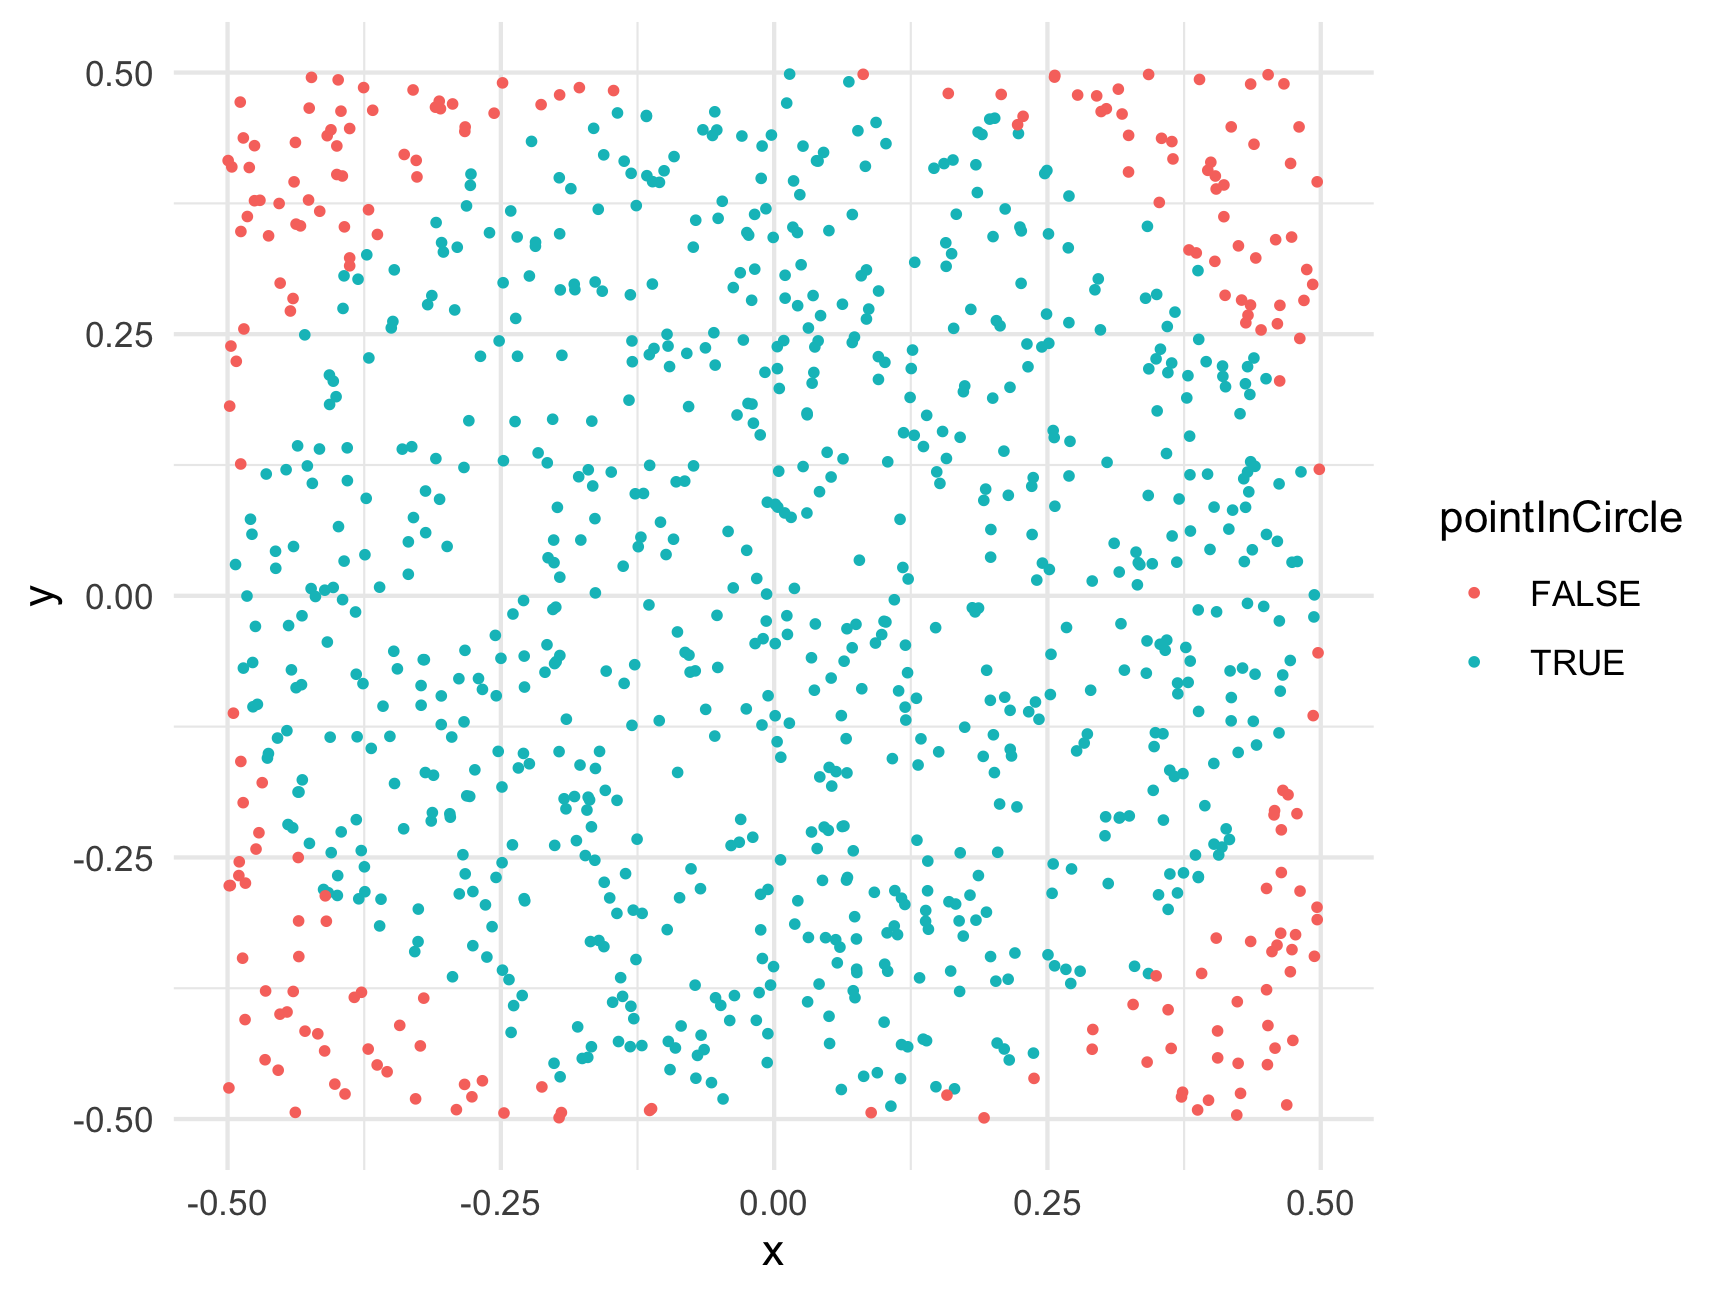
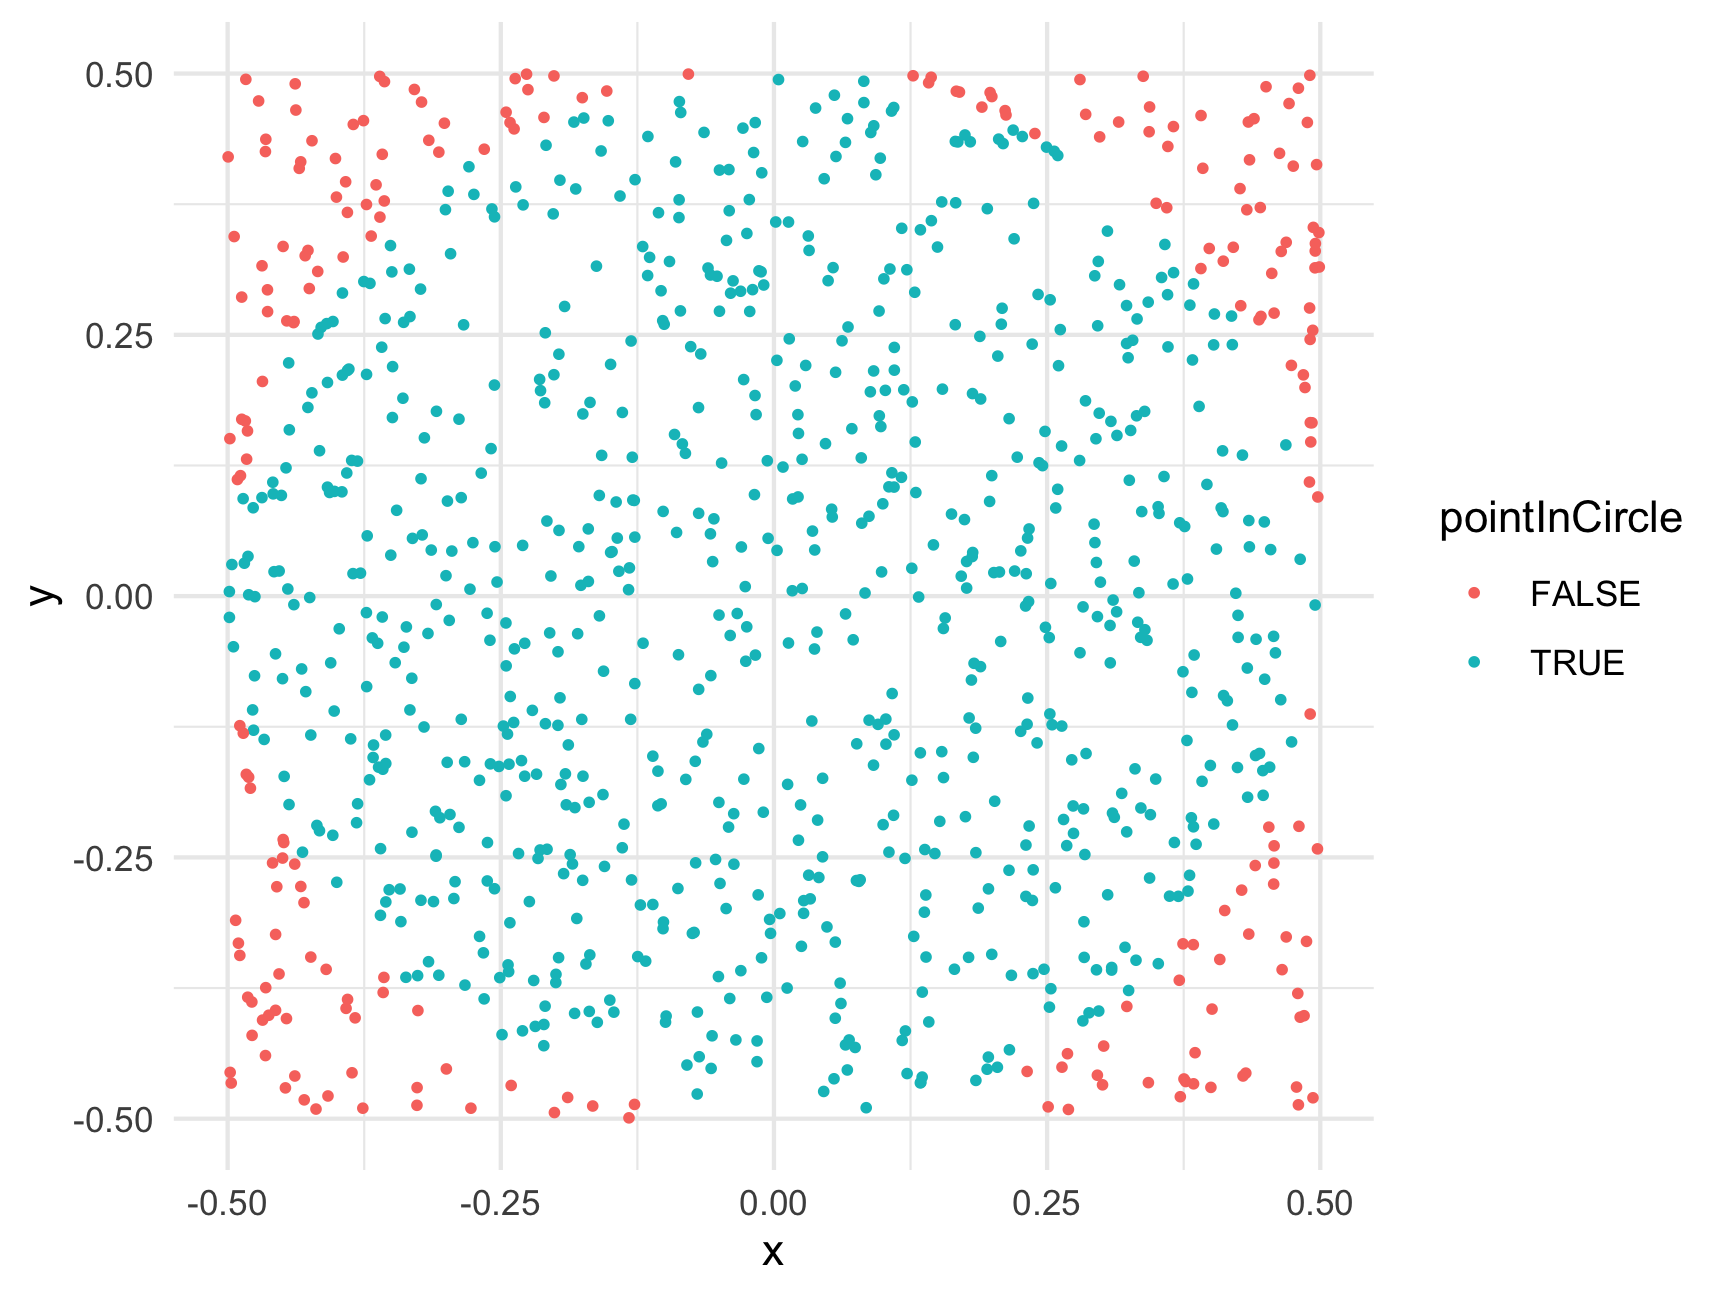
Deploying to gh-pages from  @ ff271068d2d1811dc008e36f15188fd6a6de8482 🚀

diff --git a/schedule.html b/schedule.html
@@ -634,11 +634,11 @@ Jan 13
 </td>
 <td style="text-align:center;">
 </td>
-<td style="text-align:left;width: 16em; ">
+<td style="text-align:left;width: 20em; ">
 <a href="c1-getting-started.html"><i class="fas fa-laptop-code"></i></a> <strong>Getting Started</strong><br>Class orientation, intro to R, workflow, problem solving
 </td>
-<td style="text-align:left;width: 16em; ">
-[<i class="fas fa-book-reader"></i>][<i class="fas fa-laptop-code"></i>](a1-getting-started.html) <strong>Getting Started</strong><br>Due Jan 19
+<td style="text-align:left;width: 9em; ">
+<a href="a1-getting-started.html"><i class="fas fa-book-reader"></i></a> Due Jan 19
 </td>
 </tr>
 <tr>
@@ -651,11 +651,11 @@ Jan 20
 <td style="text-align:center;">
 1
 </td>
-<td style="text-align:left;width: 16em; ">
+<td style="text-align:left;width: 20em; ">
 <a href="c2-functions-packages.html"><i class="fas fa-laptop-code"></i></a> <strong>Functions &amp; Packages</strong><br>Functions, arguments, installing external packages
 </td>
-<td style="text-align:left;width: 16em; ">
-[<i class="fas fa-book-reader"></i>][<i class="fas fa-laptop-code"></i>](a2-functions-packages.html) <strong>Functions &amp; Packages</strong><br>Due Jan 26
+<td style="text-align:left;width: 9em; ">
+<a href="a2-functions-packages.html"><i class="fas fa-book-reader"></i></a> Due Jan 26
 </td>
 </tr>
 <tr>
@@ -668,11 +668,11 @@ Jan 27
 <td style="text-align:center;">
 2
 </td>
-<td style="text-align:left;width: 16em; ">
+<td style="text-align:left;width: 20em; ">
 <a href="c3-creating-functions.html"><i class="fas fa-laptop-code"></i></a> <strong>Creating Functions</strong><br>Defining your own functions, top-down structure
 </td>
-<td style="text-align:left;width: 16em; ">
-[<i class="fas fa-book-reader"></i>][<i class="fas fa-laptop-code"></i>](a3-creating-functions.html) <strong>Creating Functions</strong><br>Due Feb 02
+<td style="text-align:left;width: 9em; ">
+<a href="a3-creating-functions.html"><i class="fas fa-book-reader"></i></a> Due Feb 02
 </td>
 </tr>
 <tr>
@@ -684,11 +684,11 @@ Feb 03
 </td>
 <td style="text-align:center;">
 </td>
-<td style="text-align:left;width: 16em; ">
+<td style="text-align:left;width: 20em; ">
 <a href="c4-conditionals-testing.html"><i class="fas fa-laptop-code"></i></a> <strong>Conditionals &amp; Testing</strong><br>If / else statements, writing unit tests
 </td>
-<td style="text-align:left;width: 16em; ">
-[<i class="fas fa-book-reader"></i>][<i class="fas fa-laptop-code"></i>](a4-conditionals-testing.html) <strong>Conditionals &amp; Testing</strong><br>Due Feb 09
+<td style="text-align:left;width: 9em; ">
+<a href="a4-conditionals-testing.html"><i class="fas fa-book-reader"></i></a> Due Feb 09
 </td>
 </tr>
 <tr>
@@ -701,11 +701,11 @@ Feb 10
 <td style="text-align:center;">
 3
 </td>
-<td style="text-align:left;width: 16em; ">
+<td style="text-align:left;width: 20em; ">
 <a href="c5-iteration.html"><i class="fas fa-laptop-code"></i></a> <strong>Iteration</strong><br>Ins and outs of loops
 </td>
-<td style="text-align:left;width: 16em; ">
-[<i class="fas fa-book-reader"></i>][<i class="fas fa-laptop-code"></i>](a5-iteration.html) <strong>Iteration</strong><br>Due Feb 16
+<td style="text-align:left;width: 9em; ">
+<a href="a5-iteration.html"><i class="fas fa-book-reader"></i></a> Due Feb 16
 </td>
 </tr>
 <tr>
@@ -717,11 +717,11 @@ Feb 17
 </td>
 <td style="text-align:center;">
 </td>
-<td style="text-align:left;width: 16em; ">
+<td style="text-align:left;width: 20em; ">
 <a href="c6-vectors.html"><i class="fas fa-laptop-code"></i></a> <strong>Vectors</strong><br>Creating and slicing collections of values
 </td>
-<td style="text-align:left;width: 16em; ">
-[<i class="fas fa-book-reader"></i>][<i class="fas fa-laptop-code"></i>](a6-vectors.html) <strong>Vectors</strong><br>Due Feb 23
+<td style="text-align:left;width: 9em; ">
+<a href="a6-vectors.html"><i class="fas fa-book-reader"></i></a> Due Feb 23
 </td>
 </tr>
 <tr>
@@ -734,11 +734,11 @@ Feb 24
 <td style="text-align:center;">
 4
 </td>
-<td style="text-align:left;width: 16em; ">
+<td style="text-align:left;width: 20em; ">
 <a href="c7-strings.html"><i class="fas fa-laptop-code"></i></a> <strong>Strings</strong><br>All things between quotes
 </td>
-<td style="text-align:left;width: 16em; ">
-[<i class="fas fa-book-reader"></i>][<i class="fas fa-laptop-code"></i>](a7-strings.html) <strong>Strings</strong><br>Due Mar 02
+<td style="text-align:left;width: 9em; ">
+<a href="a7-strings.html"><i class="fas fa-book-reader"></i></a> Due Mar 02
 </td>
 </tr>
 <tr>
@@ -750,11 +750,11 @@ Mar 03
 </td>
 <td style="text-align:center;">
 </td>
-<td style="text-align:left;width: 16em; ">
+<td style="text-align:left;width: 20em; ">
 <a href="c8-python.html"><i class="fas fa-laptop-code"></i></a> <strong>Python in R</strong><br>Python basics, and using python in R
 </td>
-<td style="text-align:left;width: 16em; ">
-[<i class="fas fa-book-reader"></i>][<i class="fas fa-laptop-code"></i>](a8-python.html) <strong>Python in R</strong><br>Due Mar 09
+<td style="text-align:left;width: 9em; ">
+<a href="a8-python.html"><i class="fas fa-book-reader"></i></a> Due Mar 09
 </td>
 </tr>
 <tr>
@@ -766,10 +766,10 @@ Mar 10
 </td>
 <td style="text-align:center;">
 </td>
-<td style="text-align:left;width: 16em; ">
+<td style="text-align:left;width: 20em; ">
 <strong>Midterm</strong><br>Don’t panic!
 </td>
-<td style="text-align:left;width: 16em; ">
+<td style="text-align:left;width: 9em; ">
 </td>
 </tr>
 <tr>
@@ -781,10 +781,10 @@ Mar 17
 </td>
 <td style="text-align:center;">
 </td>
-<td style="text-align:left;width: 16em; ">
+<td style="text-align:left;width: 20em; ">
 <strong>Spring Break</strong><br>No class
 </td>
-<td style="text-align:left;width: 16em; ">
+<td style="text-align:left;width: 9em; ">
 </td>
 </tr>
 <tr>
@@ -797,11 +797,11 @@ Mar 24
 <td style="text-align:center;">
 5
 </td>
-<td style="text-align:left;width: 16em; ">
+<td style="text-align:left;width: 20em; ">
 <a href="c9-data-frames.html"><i class="fas fa-laptop-code"></i></a> <strong>Data Frames</strong><br>Rows and columns of data
 </td>
-<td style="text-align:left;width: 16em; ">
-[<i class="fas fa-book-reader"></i>][<i class="fas fa-laptop-code"></i>](a9-data-frames.html) <strong>Data Frames</strong><br>Due Mar 30
+<td style="text-align:left;width: 9em; ">
+<a href="a9-data-frames.html"><i class="fas fa-book-reader"></i></a> Due Mar 30
 </td>
 </tr>
 <tr>
@@ -813,11 +813,11 @@ Mar 31
 </td>
 <td style="text-align:center;">
 </td>
-<td style="text-align:left;width: 16em; ">
+<td style="text-align:left;width: 20em; ">
 <a href="c10-data-wrangling.html"><i class="fas fa-laptop-code"></i></a> <strong>Data Wrangling</strong><br>Modifying data frames
 </td>
-<td style="text-align:left;width: 16em; ">
-[<i class="fas fa-book-reader"></i>][<i class="fas fa-laptop-code"></i>](a10-data-wrangling.html) <strong>Data Wrangling</strong><br>Due Apr 06
+<td style="text-align:left;width: 9em; ">
+<a href="a10-data-wrangling.html"><i class="fas fa-book-reader"></i></a> Due Apr 06
 </td>
 </tr>
 <tr>
@@ -830,11 +830,11 @@ Apr 07
 <td style="text-align:center;">
 6
 </td>
-<td style="text-align:left;width: 16em; ">
+<td style="text-align:left;width: 20em; ">
 <a href="c11-data-visualization.html"><i class="fas fa-laptop-code"></i></a> <strong>Data Visualization</strong><br>Visualizing your data
 </td>
-<td style="text-align:left;width: 16em; ">
-[<i class="fas fa-book-reader"></i>][<i class="fas fa-laptop-code"></i>](a11-data-visualization.html) <strong>Data Visualization</strong><br>Due Apr 13
+<td style="text-align:left;width: 9em; ">
+<a href="a11-data-visualization.html"><i class="fas fa-book-reader"></i></a> Due Apr 13
 </td>
 </tr>
 <tr>
@@ -847,11 +847,11 @@ Apr 14
 <td style="text-align:center;">
 7
 </td>
-<td style="text-align:left;width: 16em; ">
+<td style="text-align:left;width: 20em; ">
 <a href="c12-reproducible-reporting.html"><i class="fas fa-laptop-code"></i></a> <strong>Reproducible Reporting</strong><br>Combinging text and code with RMarkdown
 </td>
-<td style="text-align:left;width: 16em; ">
-[<i class="fas fa-book-reader"></i>][<i class="fas fa-laptop-code"></i>](a12-reproducible-reporting.html) <strong>Reproducible Reporting</strong><br>Due Apr 20
+<td style="text-align:left;width: 9em; ">
+<a href="a12-reproducible-reporting.html"><i class="fas fa-book-reader"></i></a> Due Apr 20
 </td>
 </tr>
 <tr>
@@ -863,10 +863,10 @@ Apr 21
 </td>
 <td style="text-align:center;">
 </td>
-<td style="text-align:left;width: 16em; ">
+<td style="text-align:left;width: 20em; ">
 <a href="c13-monte-carlo-methods.html"><i class="fas fa-laptop-code"></i></a> <strong>Monte Carlo Methods</strong><br>Using simulation to solve problems
 </td>
-<td style="text-align:left;width: 16em; ">
+<td style="text-align:left;width: 9em; ">
 </td>
 </tr>
 <tr>
@@ -878,9 +878,9 @@ Apr 28
 </td>
 <td style="text-align:center;">
 </td>
-<td style="text-align:left;width: 16em; ">
+<td style="text-align:left;width: 20em; ">
 </td>
-<td style="text-align:left;width: 16em; ">
+<td style="text-align:left;width: 9em; ">
 </td>
 </tr>
 <tr>
@@ -892,9 +892,9 @@ May 05
 </td>
 <td style="text-align:center;">
 </td>
-<td style="text-align:left;width: 16em; ">
+<td style="text-align:left;width: 20em; ">
 </td>
-<td style="text-align:left;width: 16em; ">
+<td style="text-align:left;width: 9em; ">
 </td>
 </tr>
 </tbody>

diff --git a/L13-monte-carlo-methods.html b/L13-monte-carlo-methods.html
@@ -751,11 +751,11 @@ ratio &lt;- sum(belowCurve) / numTrials
 totalArea &lt;- (7 - 3) * 7^2 # Rectangle length x height = 196
 areaUnderCurve &lt;- ratio * totalArea
 areaUnderCurve</code></pre>
-<pre><code>#&gt; [1] 105.3226</code></pre>
-<p>So, using Monte Carlo simulation with 100,000 points, we estimate that the area under the curve is 105.32256. How’d we do? Well, if you’re familiar with calculus, the integral of <span class="math inline">\(f(x) = x^2\)</span> has a closed-form solution (<span class="math inline">\(\frac{x^3}{3} + C\)</span>), so we can check our estimate against the pure-math solution:</p>
+<pre><code>#&gt; [1] 104.8678</code></pre>
+<p>So, using Monte Carlo simulation with 100,000 points, we estimate that the area under the curve is 104.86784. How’d we do? Well, if you’re familiar with calculus, the integral of <span class="math inline">\(f(x) = x^2\)</span> has a closed-form solution (<span class="math inline">\(\frac{x^3}{3} + C\)</span>), so we can check our estimate against the pure-math solution:</p>
 <p><span class="math display">\[\int_{3}^{7} x^2 \mathrm{dx} = \left ( \frac{x^3}{3} \right ) \Big|_3^7 = \frac{7^3}{3} - \frac{3^3}{3} = 105.33\bar{3}\]</span></p>
-<p>So our estimate error is: <code>105.333 -</code> <code>105.32256</code> <code>=</code> <code>0.0107733</code>.</p>
-<p>That’s an error of just 0.01 % - not bad!</p>
+<p>So our estimate error is: <code>105.333 -</code> <code>104.86784</code> <code>=</code> <code>0.4654933</code>.</p>
+<p>That’s an error of just 0.44 % - not bad!</p>
 <hr />
 </div>
 <div id="monte-carlo-pi" class="section level1">
@@ -785,13 +785,13 @@ points &lt;- data.frame(
     x = runif(numTrials, -0.5, 0.5),
     y = runif(numTrials, -0.5, 0.5))
 head(points)</code></pre>
-<pre><code>#&gt;             x           y
-#&gt; 1 -0.07014647 -0.43919252
-#&gt; 2 -0.14903221  0.11823636
-#&gt; 3  0.15928030  0.48006426
-#&gt; 4 -0.33466243  0.02058076
-#&gt; 5  0.02646721  0.12351415
-#&gt; 6  0.08441674  0.26449643</code></pre>
+<pre><code>#&gt;             x            y
+#&gt; 1  0.22730822  0.439751972
+#&gt; 2 -0.40668374  0.099170289
+#&gt; 3  0.49528273 -0.008508551
+#&gt; 4 -0.02757368 -0.175125901
+#&gt; 5 -0.43860578 -0.256394227
+#&gt; 6 -0.48077030 -0.173246816</code></pre>
 <p>For this example, we’re putting the points in a data frame to make it easier to work with. Now that we have random x and y points, let’s compute the radius to each point (the distance from <code>(x, y) = (0, 0)</code>) so we can determine which points fall inside the circle (which has a radius of 0.5):</p>
 <pre class="r"><code>library(dplyr)
 points &lt;- points %&gt;%
@@ -808,9 +808,9 @@ ggplot(points) +
 <pre class="r"><code>ratio &lt;- sum(points$pointInCircle) / nrow(points)
 piApprox &lt;- 4 * ratio
 piApprox</code></pre>
-<pre><code>#&gt; [1] 3.14</code></pre>
-<p>So our estimate error is: <code>3.1415 -</code> <code>3.14</code> <code>=</code> <code>-0.0015927</code>.</p>
-<p>That’s an error of just 0.05 % - not bad for only 1,000 points!</p>
+<pre><code>#&gt; [1] 3.096</code></pre>
+<p>So our estimate error is: <code>3.1415 -</code> <code>3.096</code> <code>=</code> <code>-0.0455927</code>.</p>
+<p>That’s an error of just 1.45 % - not bad for only 1,000 points!</p>
 <p>To get an even better estimate of <span class="math inline">\(\pi\)</span>, we can increase N. Let’s see what we get with 100,000 trials:</p>
 <pre class="r"><code>numTrials &lt;- 100000
 points &lt;- data.frame(
@@ -822,13 +822,13 @@ points &lt;- data.frame(
 ratio &lt;- sum(points$pointInCircle) / nrow(points)
 piApprox &lt;- 4 * ratio
 piApprox</code></pre>
-<pre><code>#&gt; [1] 3.13312</code></pre>
+<pre><code>#&gt; [1] 3.14572</code></pre>
 <pre class="r"><code># Compute error:
 error &lt;- piApprox - pi
 percentError &lt;- round(100*abs(error / pi), 2)
 percentError</code></pre>
-<pre><code>#&gt; [1] 0.27</code></pre>
-<p>By increasing the number of trials from 1,000 to 100,000, we improved our estimate error from 0.05 % to 0.27 %!</p>
+<pre><code>#&gt; [1] 0.13</code></pre>
+<p>By increasing the number of trials from 1,000 to 100,000, we improved our estimate error from 1.45 % to 0.13 %!</p>
 <hr />
 <p><strong>Page sources</strong>:</p>
 <p>Some content on this page has been modified from other courses, including:</p>

diff --git a/L2-functions-packages.html b/L2-functions-packages.html
@@ -709,7 +709,7 @@ div.tocify {
 <p>Here the letters <code>sqrt</code> are short for “square root,” and the value inside the <code>()</code> is the “argument” to the function. In the example above, the value <code>225</code> is the “argument”.</p>
 <p>Keep in mind that not all functions have (or require) arguments:</p>
 <pre class="r"><code>date() # Returns the current date and time</code></pre>
-<pre><code>#&gt; [1] &quot;Wed Dec 29 21:46:47 2021&quot;</code></pre>
+<pre><code>#&gt; [1] &quot;Wed Dec 29 22:14:08 2021&quot;</code></pre>
 <p>(the date above is the date this page was last built)</p>
 <div id="multiple-arguments" class="section level2">
 <h2>Multiple arguments</h2>
@@ -927,9 +927,9 @@ library(packagename)   # This also works</code></pre>
 <p>Now that you have the package installed on your computer, try loading it using <code>library(wikifacts)</code>, then trying using some of it’s functions:</p>
 <pre class="r"><code>library(wikifacts) # Load the library</code></pre>
 <pre class="r"><code>wiki_randomfact()</code></pre>
-<pre><code>#&gt; [1] &quot;Did you know that Ayn Rand found the title for her novel The Fountainhead, her first major success, in a thesaurus? (Courtesy of Wikipedia)&quot;</code></pre>
+<pre><code>#&gt; [1] &quot;Here&#39;s some news from 01 August 2017. A suicide bombing in Lahore, Pakistan, kills 25 people and wounds 53 others. (Courtesy of Wikipedia)&quot;</code></pre>
 <pre class="r"><code>wiki_didyouknow()</code></pre>
-<pre><code>#&gt; [1] &quot;Did you know that HIV researcher Diane Havlir was the U.S. national short track champion in 1974? (Courtesy of Wikipedia)&quot;</code></pre>
+<pre><code>#&gt; [1] &quot;Did you know that in most of the killings of the Bangladesh Drug War the victims were shot at night, and weapons and drugs were found near the bodies? (Courtesy of Wikipedia)&quot;</code></pre>
 <p>In case you’re wondering, the only thing this package does is generate messages containing random facts from <a href="https://www.wikipedia.org/">Wikipedia</a>.</p>
 </div>
 <div id="using-only-some-package-functions" class="section level2">
@@ -940,7 +940,7 @@ library(packagename)   # This also works</code></pre>
 </blockquote>
 <p>Here I use the name of the <em>package</em> followed by <code>::</code> to tell R that I’m looking for a function that is in that package. For example, if I didn’t want to load the whole <strong>wikifacts</strong> library but still wanted to use the <code>wiki_randomfact()</code> function, I could do this:</p>
 <pre class="r"><code>wikifacts::wiki_randomfact()</code></pre>
-<pre><code>#&gt; [1] &quot;Here&#39;s some news from 22 October 2017. The Syrian Democratic Forces declare victory in the Battle of Raqqa. (Courtesy of Wikipedia)&quot;</code></pre>
+<pre><code>#&gt; [1] &quot;Here&#39;s some news from 29 August 2015. A bomb explosion in Bangkok, Thailand, kills 20 people and injures more than 120 others. (Courtesy of Wikipedia)&quot;</code></pre>
 <p>Where this is particularly handy is when two packages have a function with the same name. If you load both library, R might not know which function to use. In those cases, it’s best to also provide the <strong>package</strong> name. For example, let’s say there was a package called <strong>apples</strong> and another called <strong>bananas</strong>, and each had a function named <code>fruitName()</code>. If I wanted to use each of them in my code, I would need to specify the package names like this:</p>
 <pre class="r"><code>apples::fruitName()
 bananas::fruitName()</code></pre>
